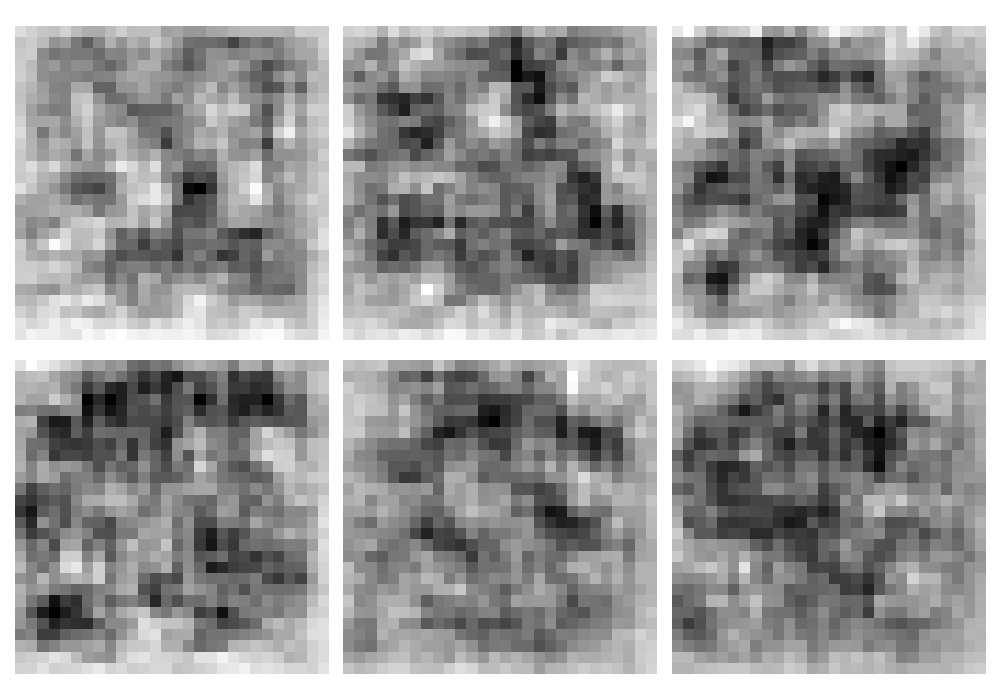
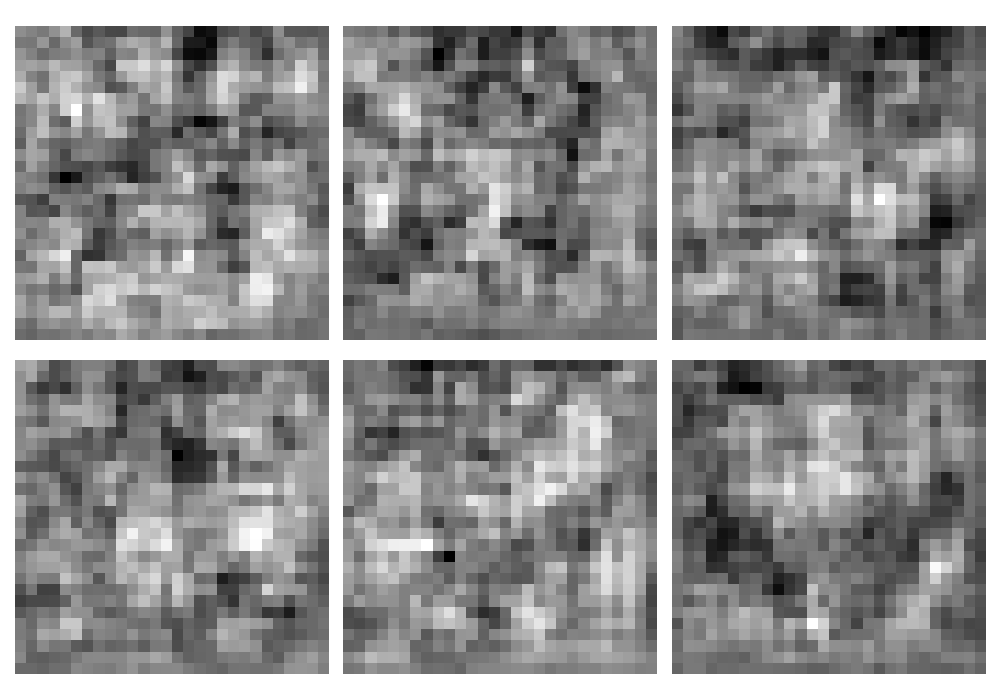
model fit works

diff --git a/GAN_agent.py b/GAN_agent.py
@@ -1,0 +1,65 @@
+from tensorflow.python.keras.models import Model
+from tensorflow.python.keras.optimizers import adam_v2
+from tensorflow.python.keras.losses import BinaryCrossentropy
+# from GAN_network import GenAI_network as network
+import tensorflow as tf
+
+
+class FashionGAN(Model):
+    def __init__(self, generator, discriminator, g_lr=0.001, d_lr=0.0001, *args, **kwargs):
+        super().__init__(*args, **kwargs)
+        self.generator = generator
+        self.discriminator = discriminator
+        self.g_lr = g_lr
+        self.d_lr = d_lr
+
+    def compile(self, *args, **kwargs):
+        super().compile(*args, **kwargs)
+
+        self.g_opt = adam_v2.Adam(learning_rate=self.g_lr)
+        self.d_opt = adam_v2.Adam(learning_rate=self.d_lr)
+        self.g_loss = BinaryCrossentropy()
+        self.d_loss = BinaryCrossentropy()
+
+    def train_step(self, batch):
+        real_images = batch  # get data
+        fake_images = self.generator(tf.random.normal((128, 128)))
+
+        # Train Discriminator
+        with tf.GradientTape() as d_tape:
+            # Pass the real and fake data to the discriminator
+            yhat_real = self.discriminator(real_images, training=True)
+            yhat_fake = self.discriminator(fake_images, training=True)
+            yhat_realfake = tf.concat([yhat_real, yhat_fake], axis=0)
+
+            # Create label for read & fake data. 0 : REAL , 1 : FAKE
+            y_realfake = tf.concat([tf.zeros_like(yhat_real), tf.ones_like(yhat_fake)], axis=0)
+
+            # Add some noise to the True output
+            noise_real = 0.15 * tf.random.uniform(tf.shape(yhat_real))
+            noise_fake = -0.15 * tf.random.uniform(tf.shape(yhat_fake))
+            y_realfake += tf.concat([noise_real, noise_fake], axis=0)
+
+            # Calculate loss
+            total_d_loss = self.d_loss(y_realfake, yhat_realfake)
+
+            # Apply backpropagation
+            dgrad = d_tape.gradient(total_d_loss, self.discriminator.trainable_variables)
+            self.d_opt.apply_gradients(zip(dgrad, self.discriminator.trainable_variables))
+
+        # Train generator
+        with tf.GradientTape() as g_tape:
+            # Generate some new images
+            gen_images = self.generator(tf.random.normal((128, 128)), training=True)
+
+            # Create the predicted label
+            predicted_label = self.discriminator(gen_images, training=False)
+
+            # Calculate loss
+            total_g_loss = self.g_loss(tf.zeros_like(predicted_label), predicted_label)
+
+            # Apply backpropagation - trick to training to fake out discriminator
+            ggrad = g_tape.gradient(total_g_loss, self.generator.trainable_variables)
+            self.g_opt.apply_gradients(zip(ggrad, self.generator.trainable_variables))
+
+        return {"d_loss": total_d_loss, "g_loss": total_g_loss}

diff --git a/main.py b/main.py
@@ -4,19 +4,24 @@ import pandas as pd
 import os
 import numpy as np
 from GAN_network import GenAI_network
+from GAN_agent import FashionGAN
 
 if __name__ == '__main__':
 
     network = GenAI_network()
     images, labels, class_names = network.load_data()
-    # network.viz_data()
 
     generator = network.build_generator()
     im = generator.predict(np.random.randn(6, 128))
-    network.plot_generated_image(im)
+    # network.plot_generated_image(im)
 
     discriminator = network.build_discriminator()
     discriminator.predict(im)
+    im, ds = network.preprocess()
+    agent = FashionGAN(generator, discriminator)
+    agent.compile()
+    hist = agent.fit(ds, epochs=20)
+
     print()
 
 

diff --git a/GAN_network.py b/GAN_network.py
@@ -4,6 +4,9 @@ import pandas as pd
 import os
 from tensorflow.python.keras import Sequential
 from tensorflow.python.keras.layers import Conv2D, Dense, Flatten, Reshape, LeakyReLU, Dropout, UpSampling2D
+
+from tensorflow.python.keras.models import Model
+
 import numpy as np
 
 
@@ -144,6 +147,8 @@ class GenAI_network:
 
         return model
 
+
+
     def plot_generated_image(self, gen_image):
         current_directory = os.getcwd()
 
@@ -168,3 +173,5 @@ class GenAI_network:
         plt.tight_layout()
         plt.savefig(plot_filename)
         plt.show()
+
+
